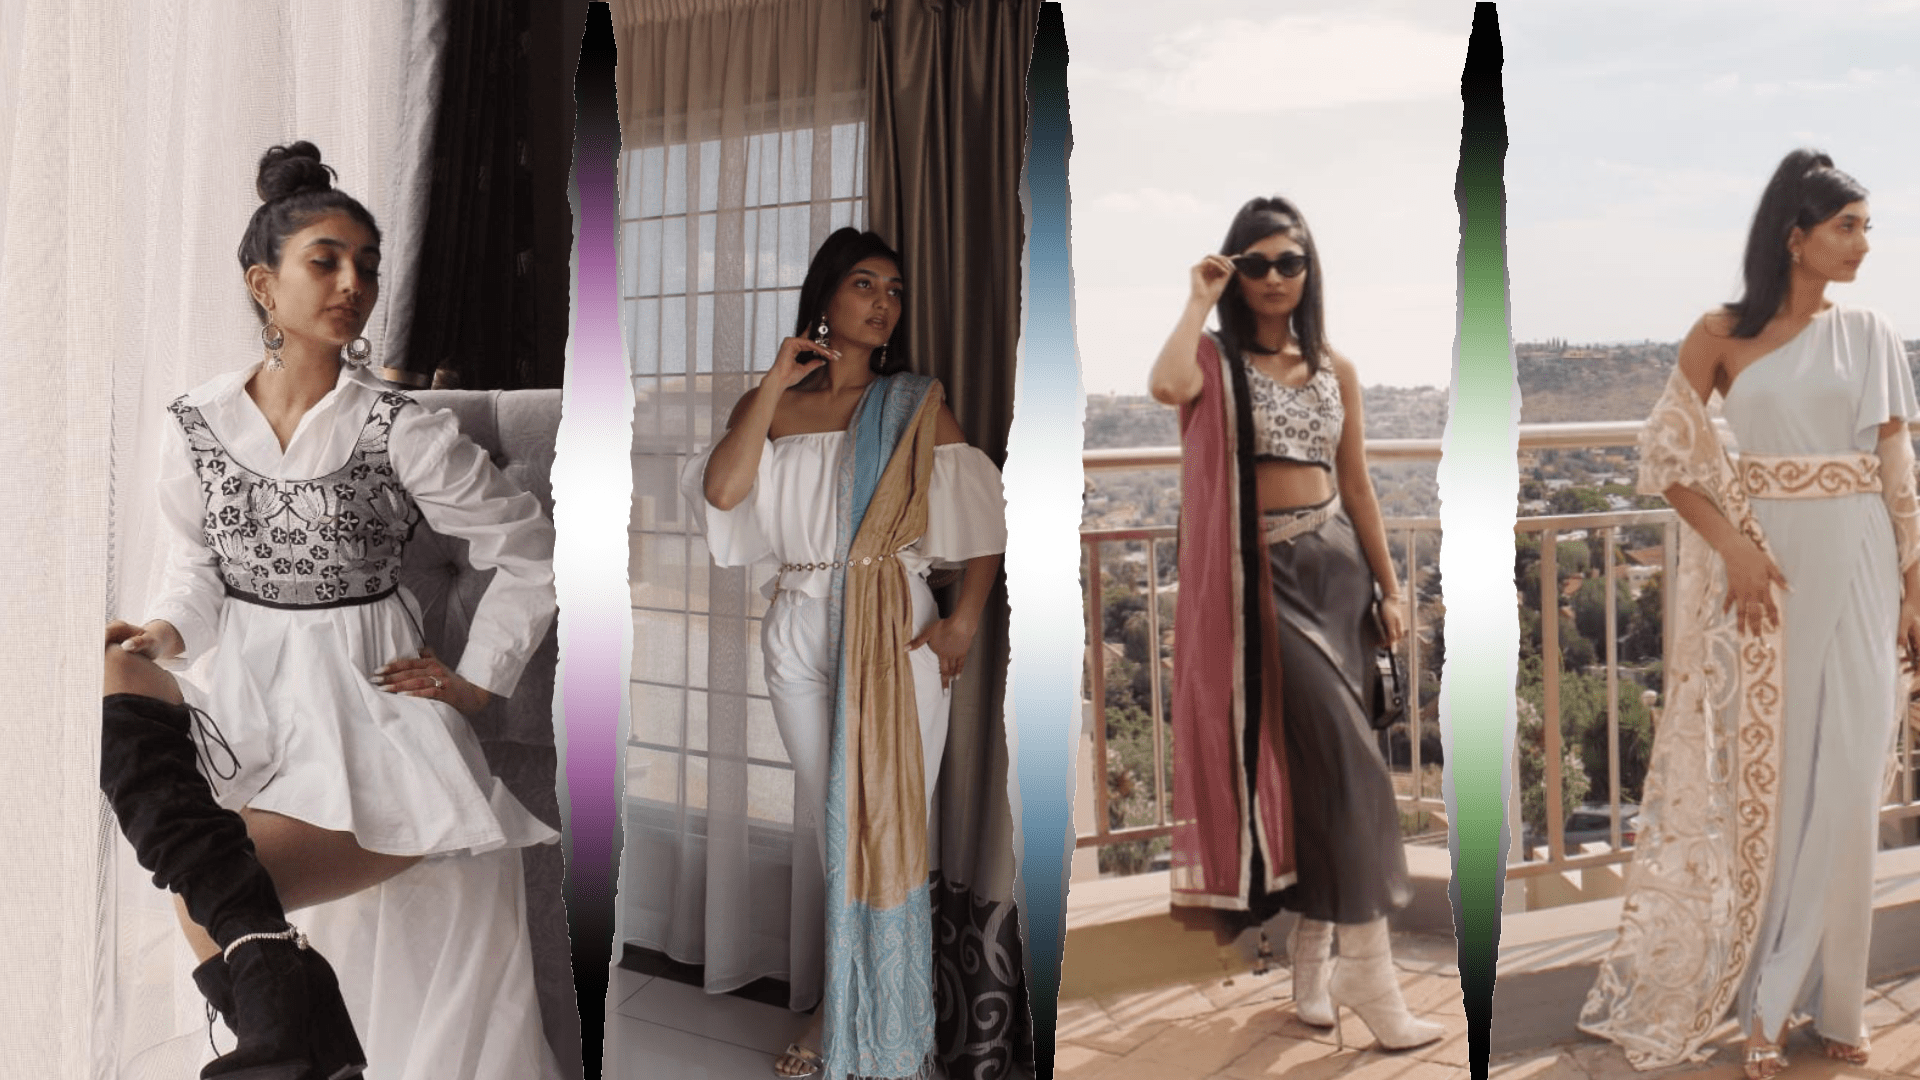
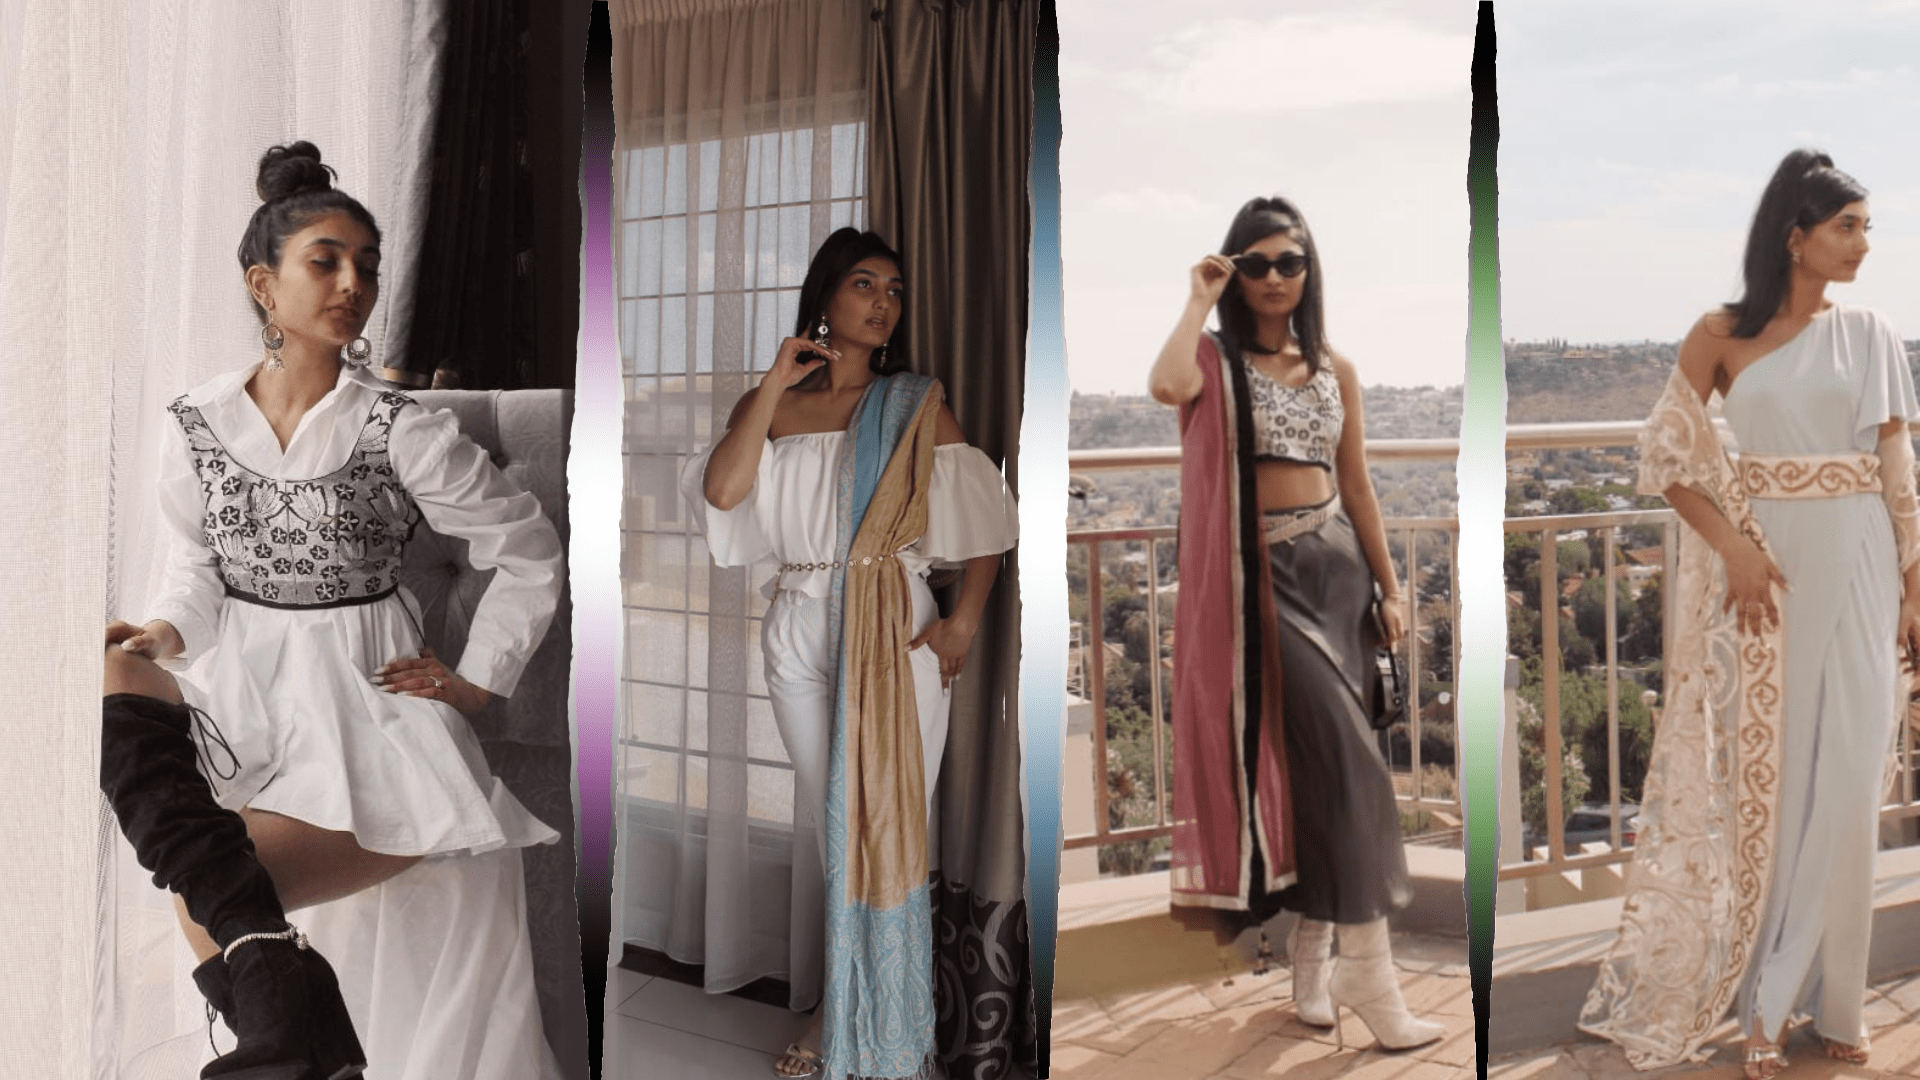
Updated Cover Photo and Home page

diff --git a/index.html b/index.html
@@ -210,10 +210,10 @@
 
             <div class="row">
                 <div class="column">
-                    <a href="/Pages/Fashion/Research/COVID-19OnTheFashionIndustry.html" class="w3-button w3-hover-black">
-                        <img src="Images/Fashion/COVIDFashionIndustry.png" alt="COVID-19OnTheFashionIndustry"
+                    <a href="/Pages/Fashion/FashionPosts/COVID-Diwali.html" class="w3-button w3-hover-black">
+                        <img src="Images/Fashion/COVID Diwali/Mish-Cover.png" alt="Diwali and COVID"
                             style="width:100%"></a>
-                            How COVID-19 has Affected the Fashion Industry
+                            How to Shine this Diwali during COVID-19
                 </div>
                 <div class="column">
                     <a href="/Pages/Gaming/Reviews/NovDec2020.html" class="w3-button w3-hover-black">
